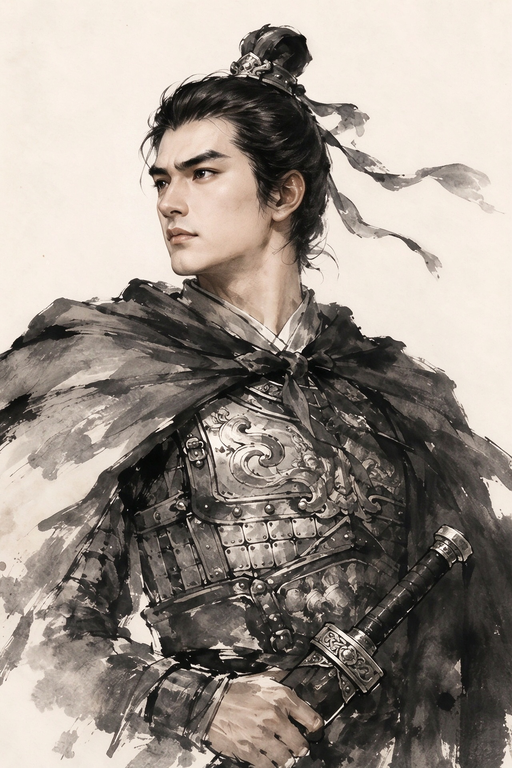
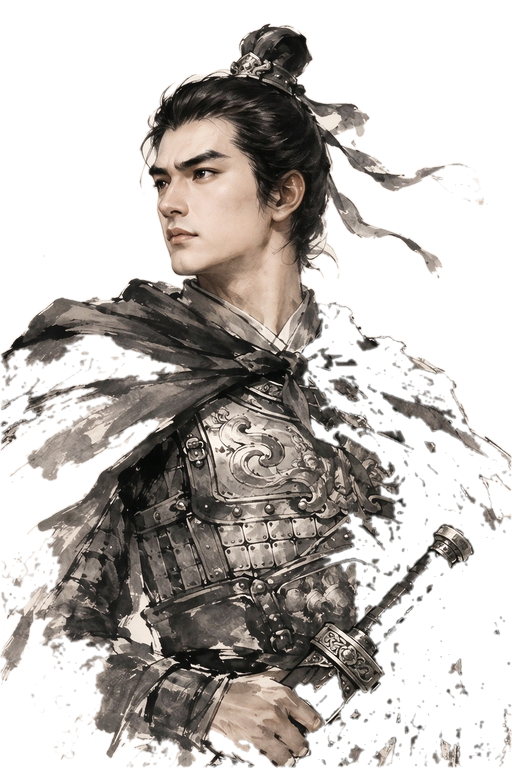
[1791721684931] sync at 2026/10/11 20:28:04

diff --git a/prot/portraits-cutout.py b/prot/portraits-cutout.py
@@ -1,0 +1,68 @@
+#!/usr/bin/env python3
+# -*- coding: utf-8 -*-
+"""把 13 张剧本立绘抠成透明底(不带背景)。
+
+源/出:assets/image/portraits/char_*.png(512x768,原地替换为透明底)
+
+方法:**边缘泛洪填充**(flood fill)。
+  从画面四边出发,沿「相邻像素色差 < 阈值」的路径向内扩散,扩散到的区域判为背景。
+  这样判定的是「与边缘的颜色连通性」,而不是全局亮度 —— 所以:
+    · 人物身上的浅色(白袍、浅色竹简)不会被误删 —— 它们与边缘不连通
+    · 背景的渐变与笔触能被跟着走完 —— 不像固定色距那样留一圈灰雾
+  再填内部空洞(袖口缝隙等被包住的背景块),最后边缘羽化避免硬边。
+"""
+import os
+import glob
+import numpy as np
+from collections import deque
+from PIL import Image, ImageFilter
+from scipy import ndimage
+
+SRC = "assets/image/portraits"
+STEP_TOL = 24        # 相邻像素色差阈值(曼哈顿距离)
+FEATHER = 1.0        # 边缘羽化半径(px)
+
+done = []
+for p in sorted(glob.glob(os.path.join(SRC, "char_*.png"))):
+    name = os.path.basename(p)[:-4]
+    im = Image.open(p).convert("RGB")
+    a = np.array(im).astype(int)
+    h, w, _ = a.shape
+
+    # 从四边种子出发做泛洪
+    seen = np.zeros((h, w), bool)
+    dq = deque()
+    for x in range(w):
+        for y in (0, h - 1):
+            if not seen[y, x]:
+                seen[y, x] = True
+                dq.append((y, x))
+    for y in range(h):
+        for x in (0, w - 1):
+            if not seen[y, x]:
+                seen[y, x] = True
+                dq.append((y, x))
+    while dq:
+        y, x = dq.popleft()
+        cur = a[y, x]
+        for dy, dx in ((1, 0), (-1, 0), (0, 1), (0, -1)):
+            ny, nx = y + dy, x + dx
+            if 0 <= ny < h and 0 <= nx < w and not seen[ny, nx]:
+                if np.abs(a[ny, nx] - cur).sum() < STEP_TOL:
+                    seen[ny, nx] = True
+                    dq.append((ny, nx))
+
+    # 注意:这里**不能**用 binary_fill_holes —— 它的语义是「把被前景包住的洞填上」,
+    # 而此处 seen 是背景、人物才是被包住的「洞」,填下去会把整个人物吞掉。
+    bgmask = seen
+    alpha = np.where(bgmask, 0, 255).astype(np.uint8)
+    am = Image.fromarray(alpha, "L").filter(ImageFilter.GaussianBlur(FEATHER))
+    alpha = np.clip((np.array(am).astype(int) - 40) * 255 / (255 - 40), 0, 255).astype(np.uint8)
+
+    out = np.dstack([np.array(im), alpha])
+    Image.fromarray(out.astype(np.uint8), "RGBA").save(p, optimize=True)
+    done.append((name, bgmask.mean(), os.path.getsize(p) / 1024))
+
+print("抠图完成 %d 张(原地替换):" % len(done))
+for n, r, kb in done:
+    print("   %-16s 背景占 %.1f%%   %6.1f KB" % (n, r * 100, kb))
